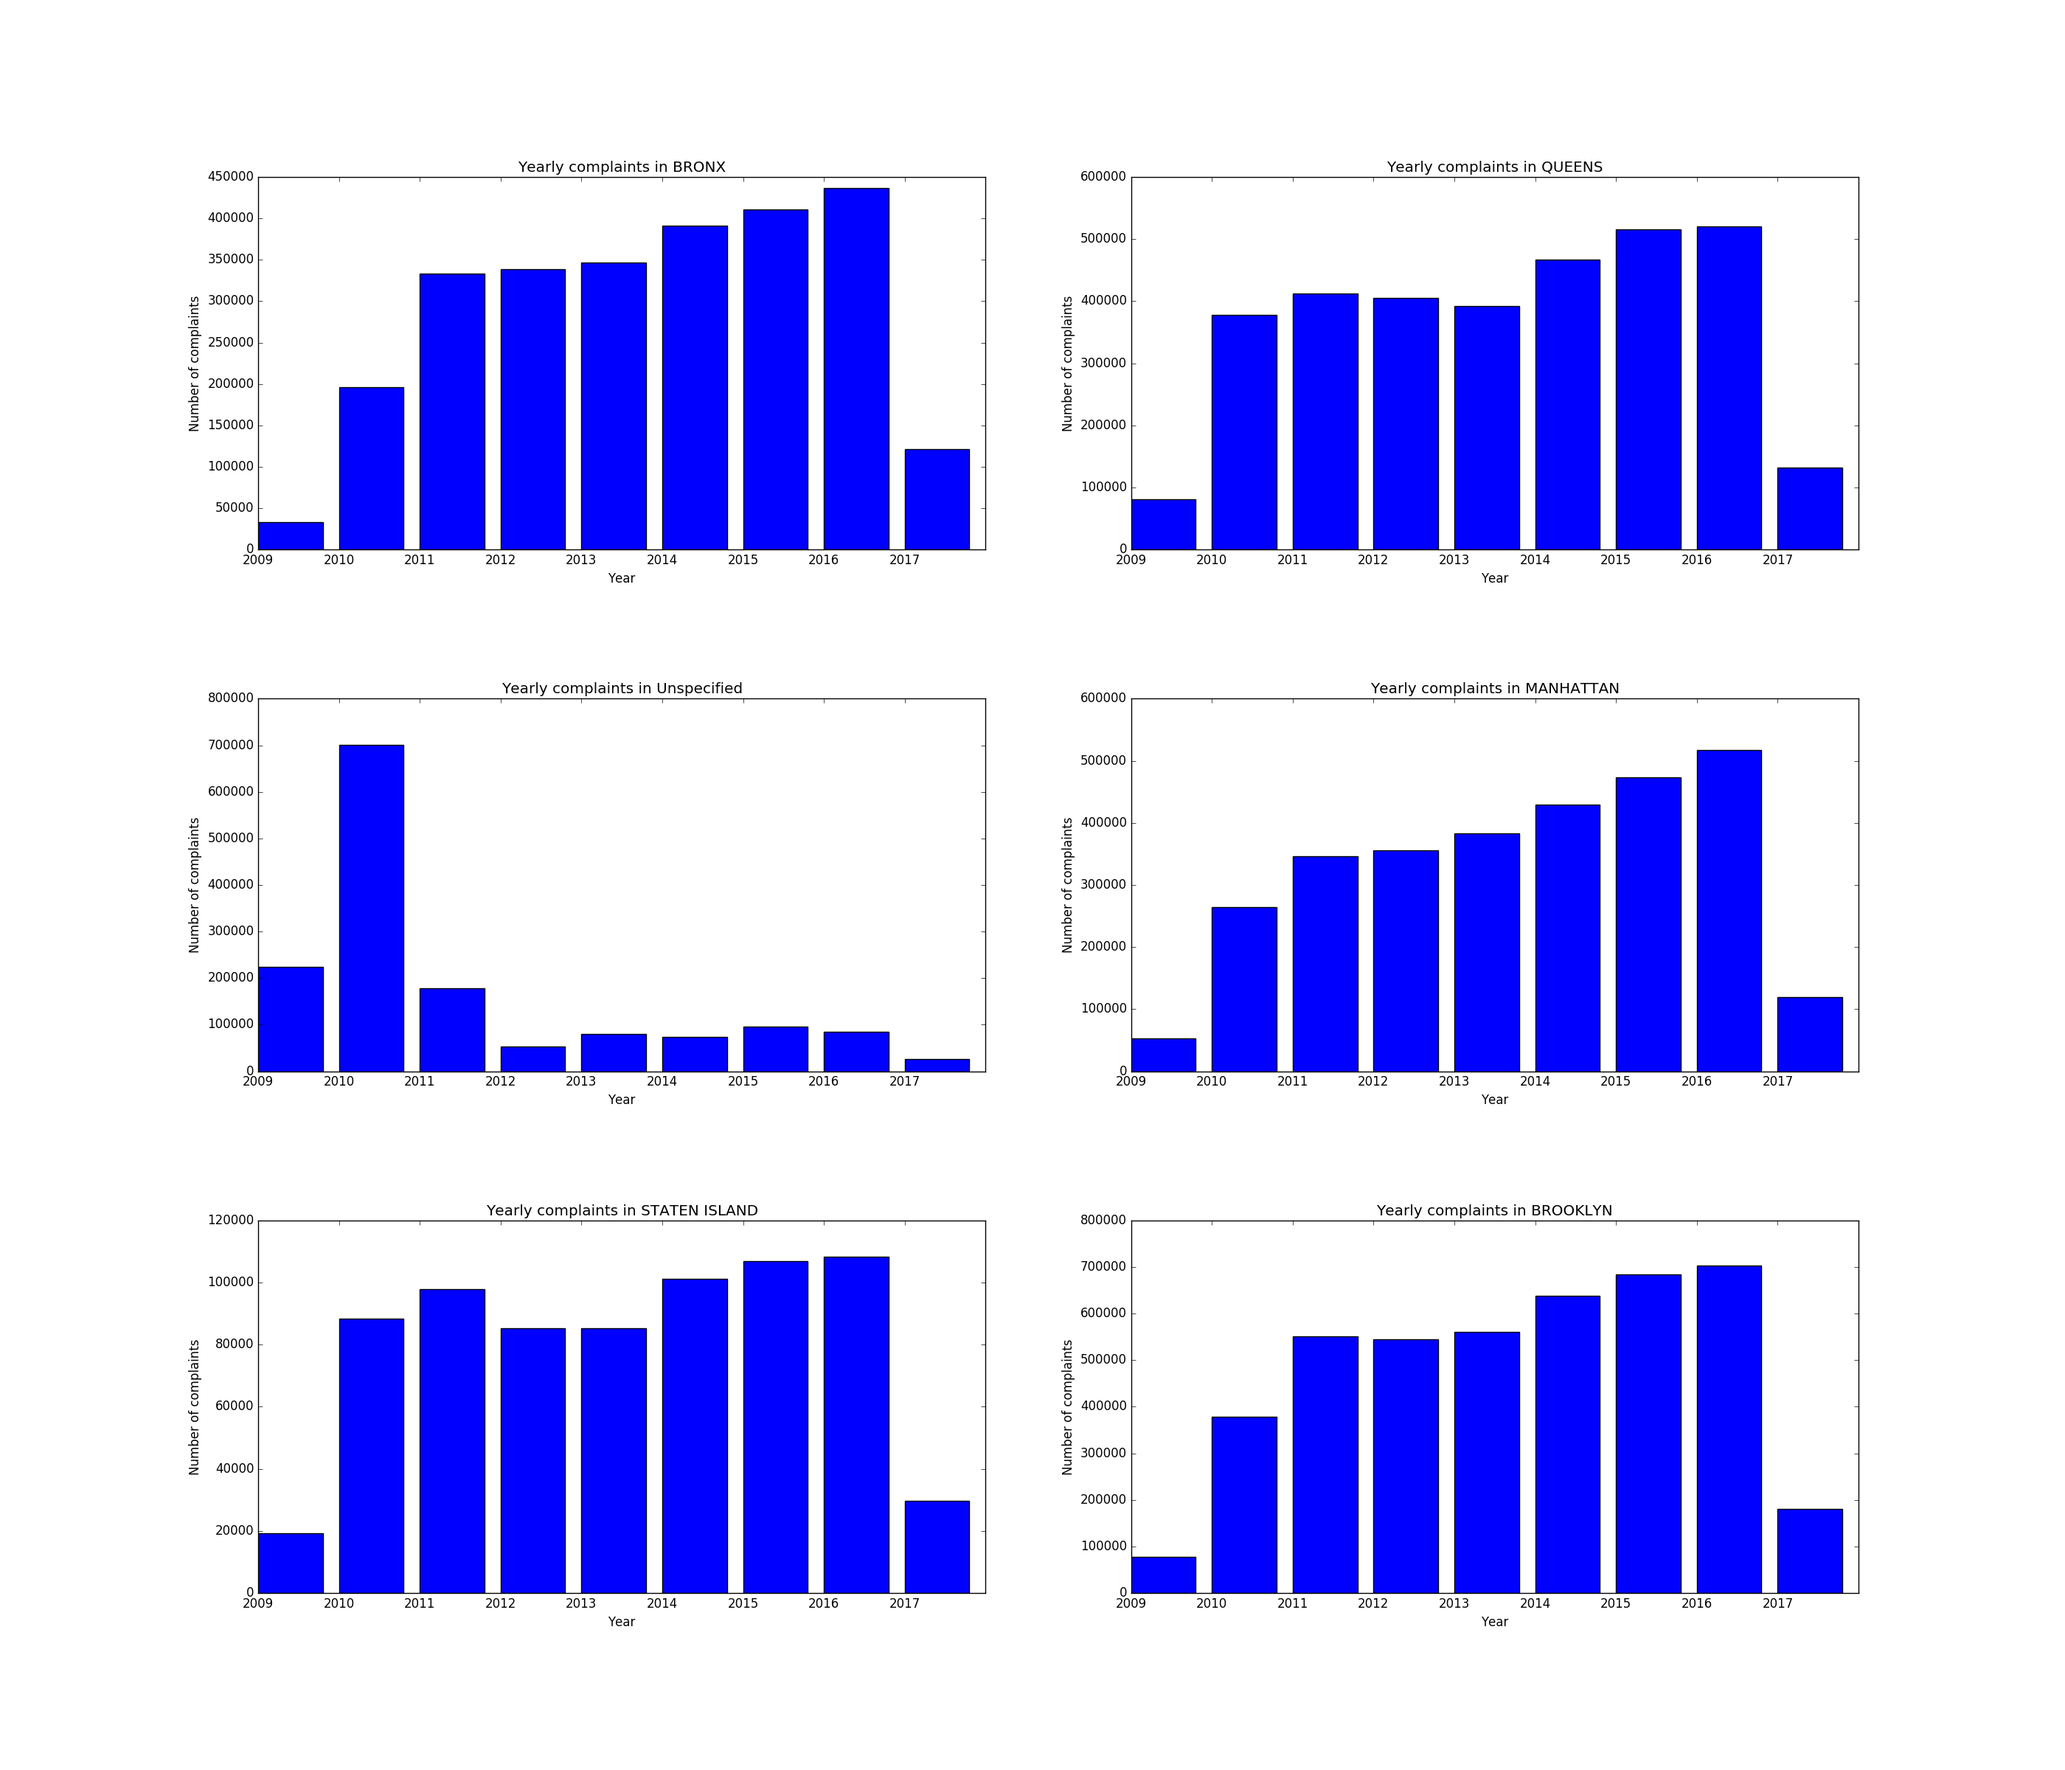
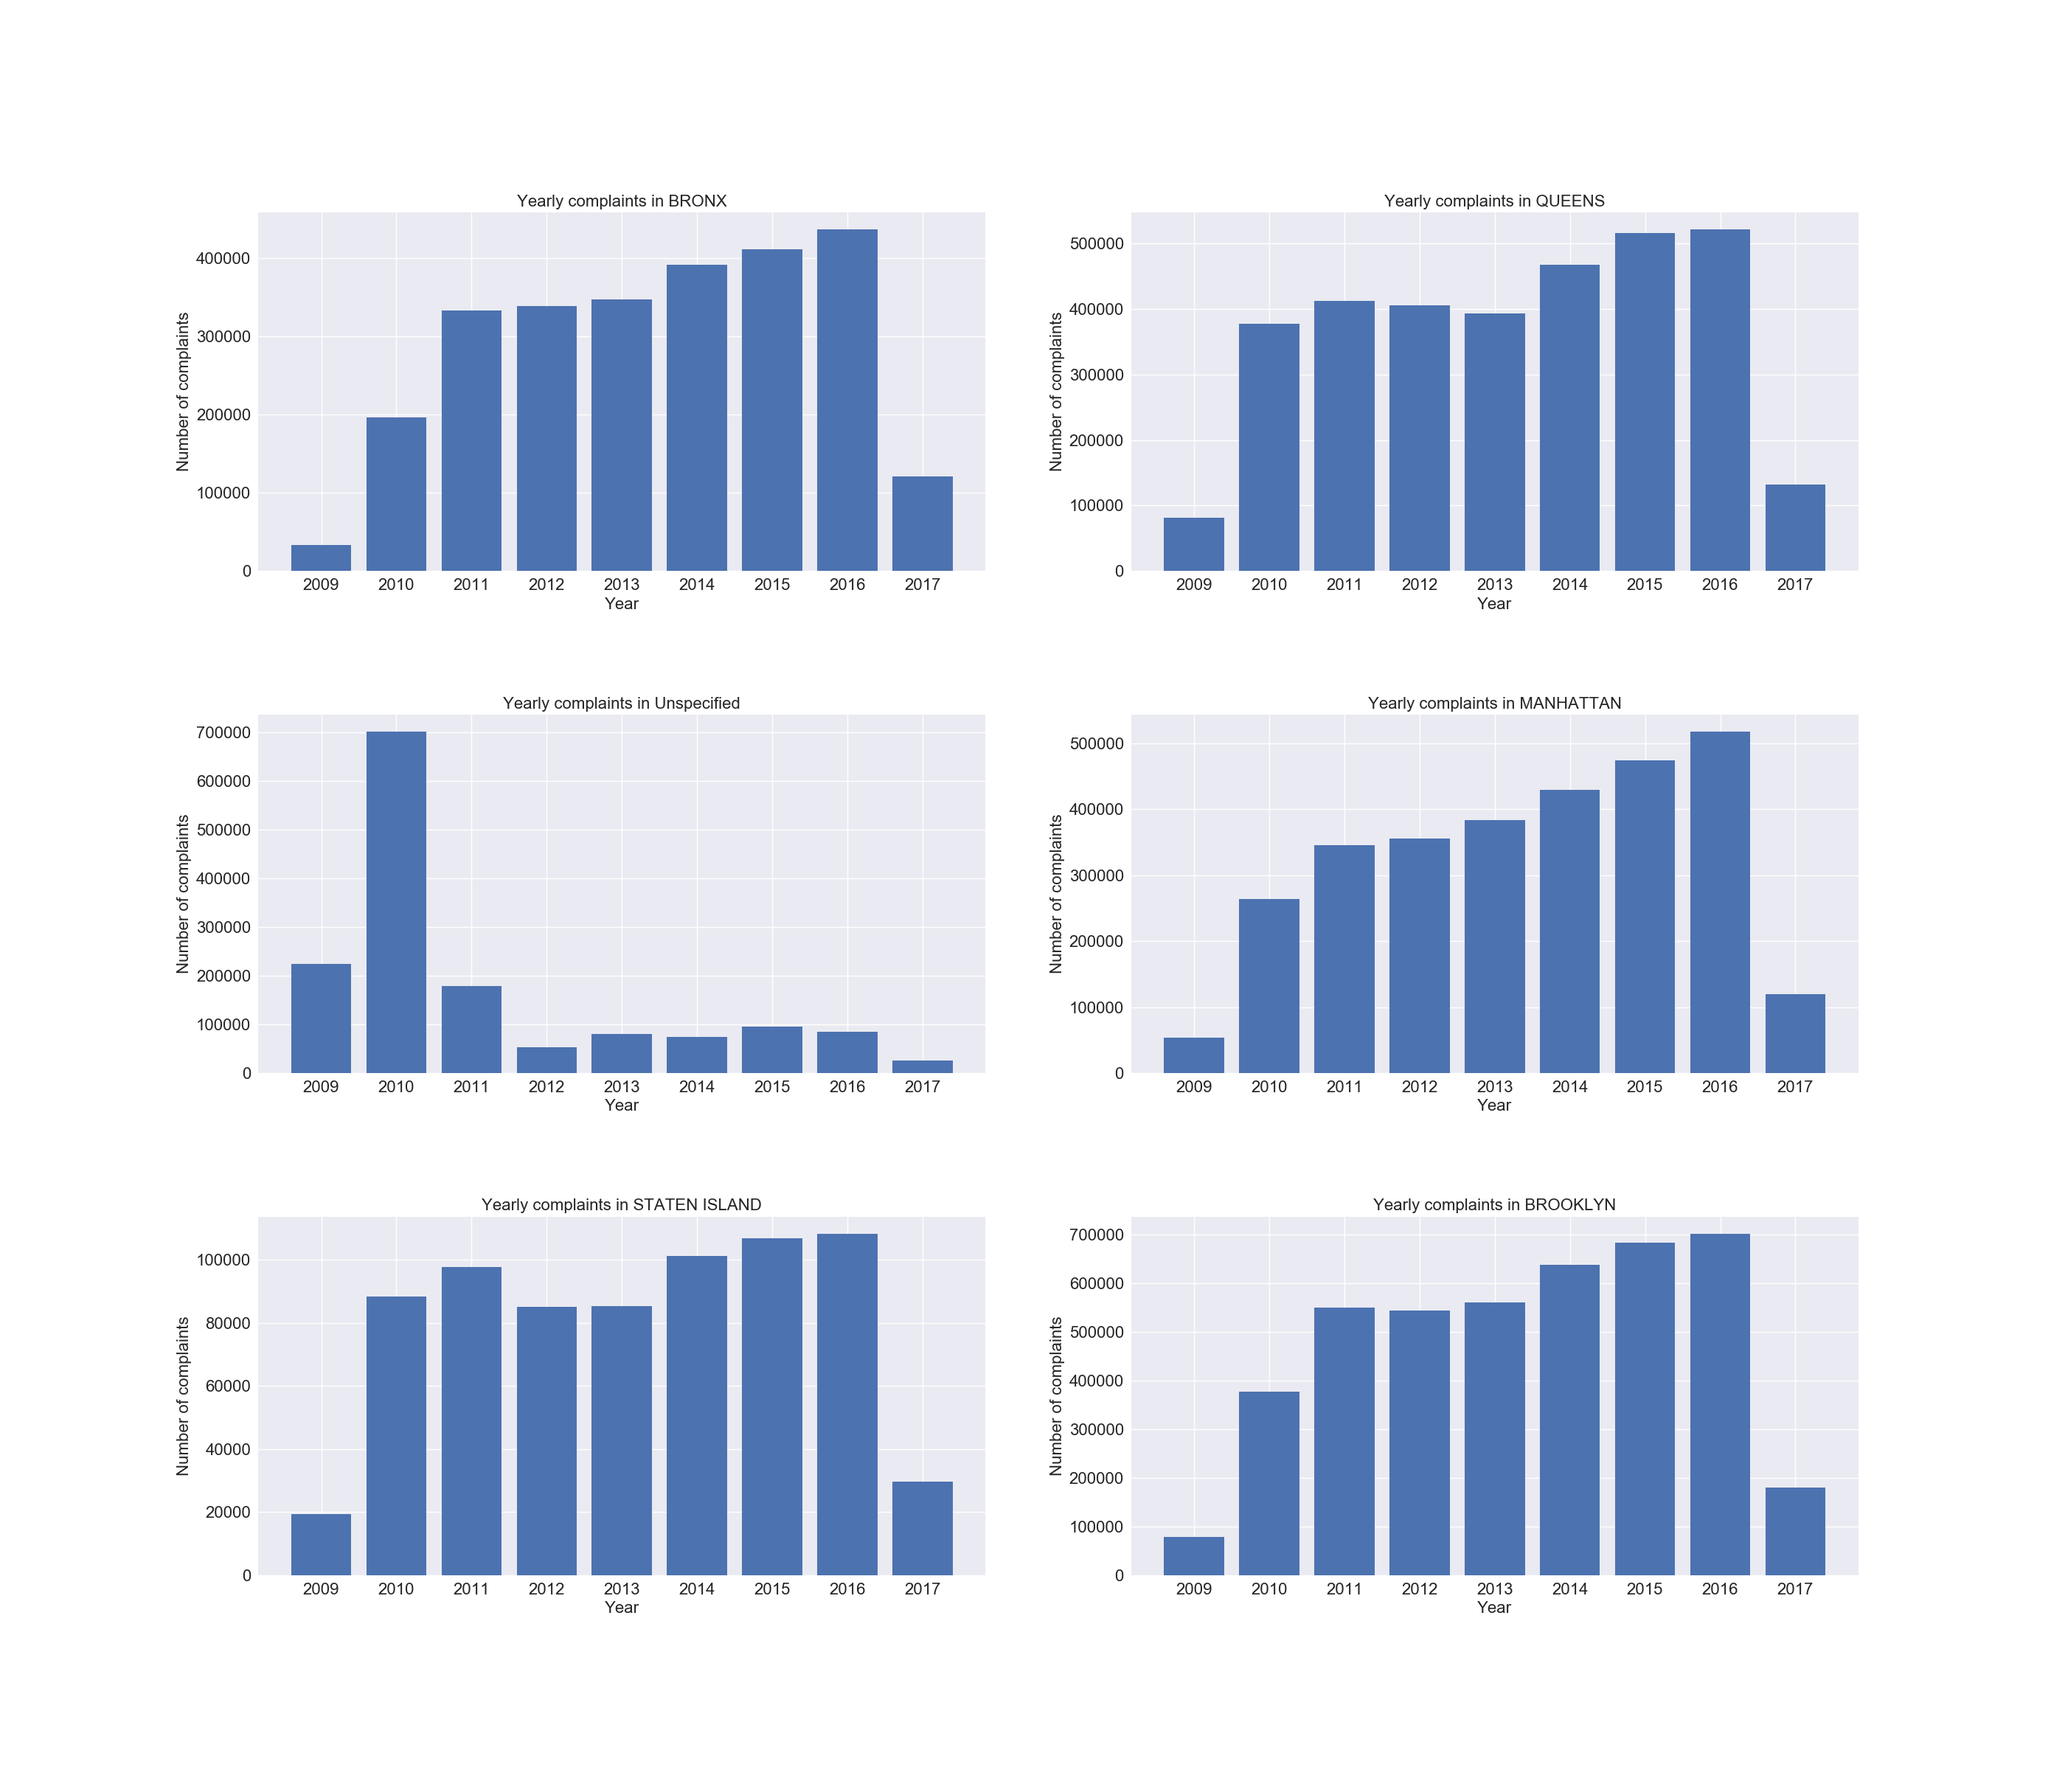
Changes to graph

diff --git a/src/visualize_result.py b/src/visualize_result.py
@@ -1,10 +1,11 @@
-
 # coding: utf-8
 
 import pandas as pd
 import matplotlib.pyplot as plt
 from datetime import datetime
 import numpy as np
+import seaborn
+
 #Util functions
 def str2datetime(x):
 
@@ -28,11 +29,13 @@ year.columns = ['year','count']
 year = year.sort_values('year')
 plt.figure(figsize=[12,12])
 plt.bar(np.arange(len(year['count'])),year['count'])
-plt.title('Number of complaints by year')
-plt.ylabel('Number of complaints')
+plt.title('Number of complaints by year', fontsize=16)
+plt.ylabel('Number of complaints',fontsize=16)
 plt.xticks(np.arange(len(year['count'])),year['year'].apply(str))
-plt.xlabel('Year')
-plt.savefig('yearcount.png')
+plt.xlabel('Year',fontsize=16)
+plt.xticks(fontsize=16)
+plt.yticks(fontsize=16)
+plt.savefig('../plots/yearcount.png')
 
 #Plot number of complaints by date
 daily = pd.read_csv('../output/ymdcount.out', sep='\t', header=None)
@@ -41,10 +44,12 @@ daily['datetime'] = daily['date'].apply(lambda x: str2datetime(x))
 daily = daily.sort_values('datetime').reset_index(drop=True)
 plt.figure(figsize=[15,15])
 plt.plot(daily['datetime'],daily['count'])
-plt.title('Number of complaints by date')
-plt.ylabel("Number of complaints")
-plt.xlabel('Date')
-plt.savefig('datecount.png')
+plt.title('Number of complaints by date',fontsize=16)
+plt.ylabel("Number of complaints",fontsize=16)
+plt.xlabel('Date',fontsize=16)
+plt.xticks(fontsize=16)
+plt.yticks(fontsize=16)
+plt.savefig('../plots/datecount.png')
 
 #Top 10 agencies with the most complaints in each year
 agency = pd.read_csv('../output/agencyy.out', sep='\t', header=None)
@@ -60,10 +65,12 @@ for n,i in enumerate(years):
     plt.subplot(3,3,n+1)
     plt.barh(np.arange(len(data['count'])),data['count'])
     plt.yticks(np.arange(len(data['count'])),data['agency'])
-    plt.title('Top 10 agencies with the most complaints in %s'%str(i))
-    plt.xlabel('Count')
-    plt.ylabel('Agency')
-plt.savefig('top10agency.png')
+    plt.title('Top 10 agencies with the most complaints in %s'%str(i),fontsize=16)
+    plt.xlabel('Count',fontsize=16)
+    plt.ylabel('Agency',fontsize=16)
+    plt.xticks(fontsize=16)
+    plt.yticks(fontsize=16)
+plt.savefig('../plots/top10agency.png')
 
 #Number of complaints by agency and year
 agencies = agency['agency'].unique()
@@ -72,13 +79,15 @@ plt.subplots_adjust(hspace=0.4)
 for n,i in enumerate(agencies):
     data = agency[agency['agency']==i].reset_index(drop=True)
     data = data.sort_values('year')
-    plt.subplot(7,4,n+1)
+    plt.subplot(8,3,n+1)
     plt.bar(np.arange(len(data['count'])),data['count'])
-    plt.title("Yearly complaints to %s"%i)
-    plt.xlabel("Year")
-    plt.ylabel("Number of complaints")
+    plt.title("Yearly complaints to %s"%i,fontsize=16)
+    plt.xlabel("Year",fontsize=12)
+    plt.ylabel("Number of complaints",fontsize=16)
     plt.xticks(np.arange(len(data['count'])),data['year'].apply(str))
-plt.savefig('yearly_agency.png')
+    plt.xticks(fontsize=13)
+    plt.yticks(fontsize=16)
+plt.savefig('../plots/yearly_agency.png')
 
 
 #top 20 zipcode with the most complaints from 2009-2017
@@ -90,10 +99,12 @@ top20 = zipyear.groupby(by=['zip'])['count'].sum().sort_values()[-20:]
 plt.figure(figsize=[12,12])
 plt.barh(np.arange(20),top20.values)
 plt.yticks(np.arange(20),top20.index)
-plt.xlabel('Number of complaints')
-plt.ylabel('Zipcode')
-plt.title('Total number of complaints from 2009-2017')
-plt.savefig('top20zipcode.png')
+plt.xlabel('Number of complaints',fontsize=16)
+plt.ylabel('Zipcode',fontsize=16)
+plt.title('Total number of complaints from 2009-2017',fontsize=16)
+plt.xticks(fontsize=16)
+plt.yticks(fontsize=16)
+plt.savefig('../plots/top20zipcode.png')
 
 #Number of complaints by zipcode and year
 plt.figure(figsize=[28,24])
@@ -101,13 +112,15 @@ plt.subplots_adjust(hspace=0.4)
 for n,i in enumerate(top20.index):
     data = zipyear[zipyear['zip']==i].reset_index(drop=True)
     data = data.sort_values('year')
-    plt.subplot(7,4,n+1)
+    plt.subplot(7,3,n+1)
     plt.bar(np.arange(len(data['count'])),data['count'])
-    plt.title("Yearly complaints in %s"%i)
-    plt.xlabel("Year")
-    plt.ylabel("Number of complaints")
+    plt.title("Yearly complaints in %s"%i,fontsize=16)
+    plt.xlabel("Year",fontsize=16)
+    plt.ylabel("Number of complaints",fontsize=16)
     plt.xticks(np.arange(len(data['count'])),data['year'].apply(str))
-plt.savefig('zip_year.png')
+    plt.xticks(fontsize=16)
+    plt.yticks(fontsize=16)
+plt.savefig('../plots/zip_year.png')
 
 #Number of complaints by borough and year
 borough = pd.read_csv('../output/boroughy.out', sep='\t', header=None)
@@ -120,11 +133,13 @@ for n,i in enumerate(boroughs):
     data = data.sort_values('year')
     plt.subplot(3,2,n+1)
     plt.bar(np.arange(len(data['count'])),data['count'])
-    plt.title("Yearly complaints in %s"%i)
-    plt.xlabel("Year")
-    plt.ylabel("Number of complaints")
+    plt.title("Yearly complaints in %s"%i,fontsize=16)
+    plt.xlabel("Year",fontsize=16)
+    plt.ylabel("Number of complaints",fontsize=16)
     plt.xticks(np.arange(len(data['count'])),data['year'].apply(str))
-plt.savefig('borough_year.png')
+    plt.xticks(fontsize=16)
+    plt.yticks(fontsize=16)
+plt.savefig('../plots/borough_year.png')
 
 #top 20 city with the most complaints from 2009-2017
 city = pd.read_csv('../output/cityy.out', sep='\t', header=None)
@@ -133,10 +148,12 @@ top20 = city.groupby(by=['city'])['count'].sum().sort_values()[-20:]
 plt.figure(figsize=[12,12])
 plt.barh([i for i in range(20)],top20.values)
 plt.yticks([i for i in range(20)],top20.index)
-plt.xlabel('Number of complaints')
-plt.ylabel('City')
-plt.title('Total number of complaints from 2009-2017')
-plt.savefig('top20cityall.png')
+plt.xlabel('Number of complaints',fontsize=16)
+plt.ylabel('City',fontsize=16)
+plt.title('Total number of complaints from 2009-2017',fontsize=16)
+plt.xticks(fontsize=16)
+plt.yticks(fontsize=11)
+plt.savefig('../plots/top20cityall.png')
 
 #Top 20 cities with the most complaints in each year
 cyears = city['year'].unique()
@@ -149,8 +166,9 @@ for n,i in enumerate(cyears):
     plt.subplot(5,2,n+1)
     plt.barh([j for j in range(len(data['count']))],data['count'])
     plt.yticks([j for j in range(len(data['count']))],data['city'])
-    plt.title('Top 20 cities with the most complaints in %s'%str(i))
-    plt.xlabel('Count')
-    plt.ylabel('city')
-plt.savefig('top20city.png')
+    plt.title('Top 20 cities with the most complaints in %s'%str(i),fontsize=16)
+    plt.xlabel('Count',fontsize=12)
+    plt.ylabel('city',fontsize=16)
+    plt.xticks(fontsize=13)
 
+plt.savefig('../plots/top20city.png')
